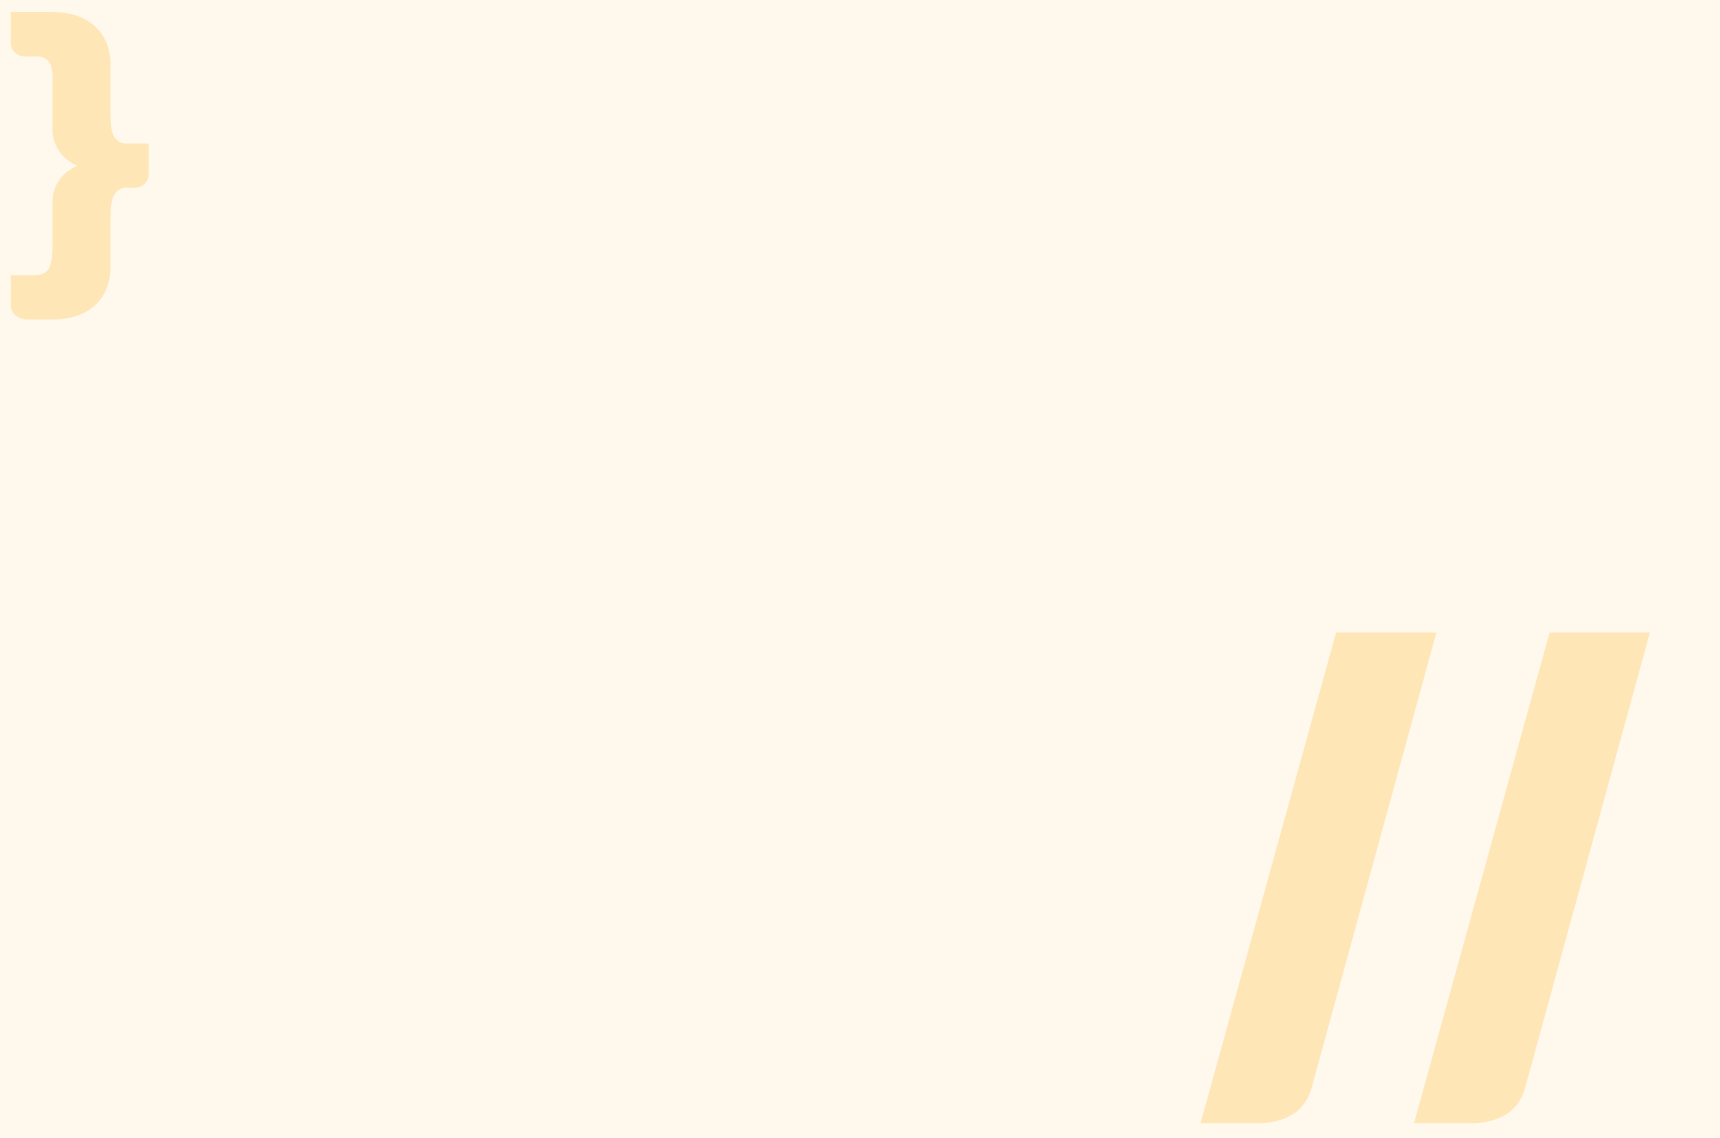
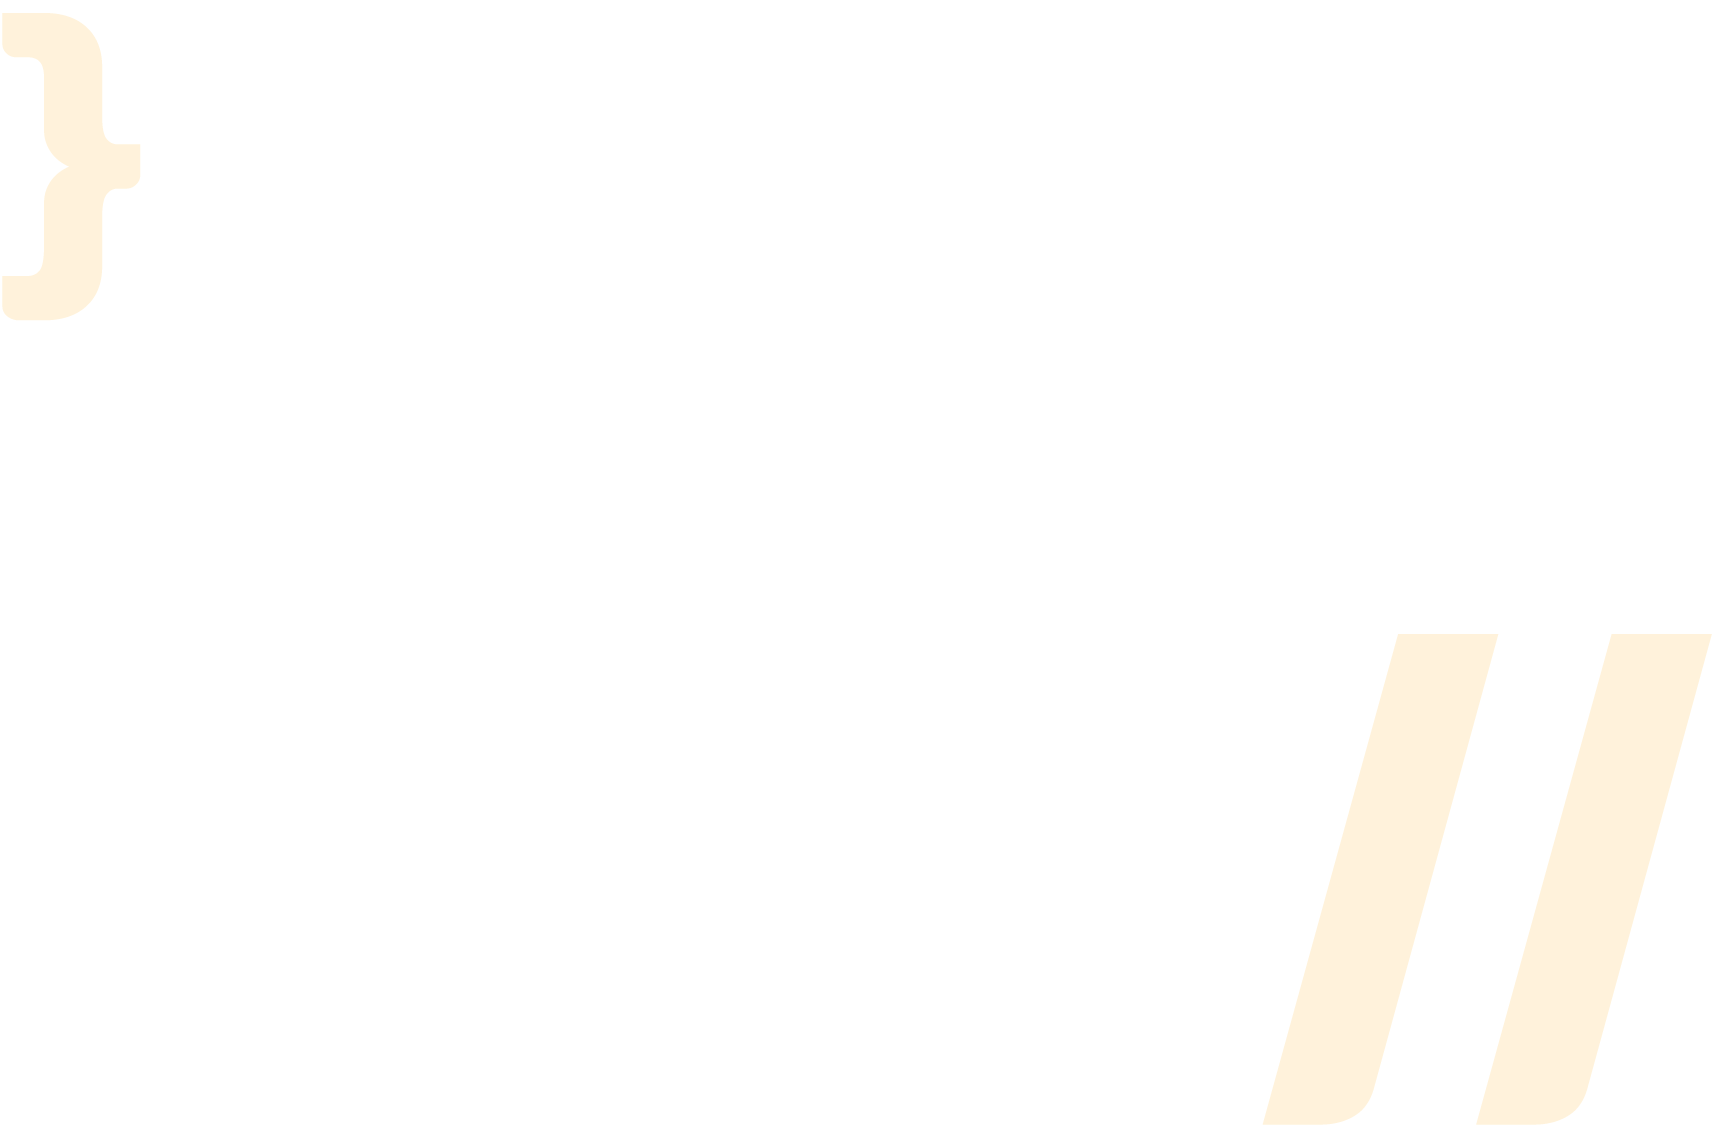
html,css - contact me 완성

Changed region(s): [[0.8012, 0.5536, 0.9552, 1.0], [0.6779, 0.5536, 0.832, 1.0], [0.0, 0.0, 0.0924, 0.2768]]

diff --git a/assets/css/style.css b/assets/css/style.css
@@ -5,8 +5,10 @@
   --color-dark-white: #bdbdbd;
   --color-yellow: #FFF2DE;
   --color-light-yellow: #FFFAF0;
+  --color-middle-yellow: #FFF9EE;
   --color-dark-yellow: #FFF1D8;
   --color-orange-yellow: #ffe0b2;
+  --color-dark-orange-yellow: #FFD894;
   --color-mint : #D1E9DB;
   --color-dark-grey: #4d4d4d;
   --color-grey: #616161;
@@ -42,19 +44,21 @@ body {height: 3000px; background-color: var(--color-white); color: var(--text-co
 /* scroll */
 .scroll {
   position: fixed;
-  right: 20px;
+  left: 20px;
   bottom: 20px;
   z-index: 100; 
   background-color: salmon; color: var(--color-white);
   padding: 10px;
+  z-index: 1000000;
 }
 .innerWidth {
   position: fixed;
-  right: 20px;
+  left: 20px;
   bottom: 70px;
   z-index: 100; 
   background-color: darksalmon; color: var(--color-white);
   padding: 10px;
+  z-index: 1000000;
 }
 
 /* lolling */
@@ -577,107 +581,109 @@ body {height: 3000px; background-color: var(--color-white); color: var(--text-co
   color: var(--color-black);
 }
 
-
-/* sec5 */
-#section05 {
-  width: 90vw; margin-left: 10vw; 
-  /* background-color: #ffe4d8; */
-  padding-top: 100px;
-  padding-bottom: 100px;
-  
+/*** footer ***/
+.footer {
+  height: 100vh;
+  background: top center / cover no-repeat url(../img/bg_contact.png) var(--color-middle-yellow);
 }
-#section05 .sec5Wrap {
-  
+.footerWrap {
+  display: flex;
+  flex-direction: column;
 }
-#section05 .sec5Wrap .secTit {
-  margin-top: 200px; padding-bottom: 100px;
-  font-size: 230px; line-height: 230px;
-  text-align: center;
-  border-bottom: 4px solid var(--color-black);
-  position: relative;
+.footerWrap .secTit {
+  font-size: 180px;
+  padding: 50px 30px 15px;
+  border-bottom: var(--border-line) solid var(--color-black);
 }
-#section05 .sec5Wrap .secTit .titDeco {
-  position: absolute; top: -200px; right: 155px;
-  
+.footerCont {
+  display: flex;
+  flex-wrap: wrap;
+  margin-left: 30px;
+  /* justify-content: space-between; */
 }
-#section05 .sec5Wrap .boxWrap {
-  width: 100%; 
-  /* background-color: antiquewhite; */
-  position: relative;
+p.contTit {
+  width: 100%;
+  font-size: 80px;
+  padding: 15px 30px 15px 0;
 }
-#section05 .sec5Wrap .boxWrap .boxAniImg {
-  position: fixed; top: 50%; right: 8%;
-  transform: translateY(-50%);
-  width: 520px; height: 670px;
+.contactBox {
+  width: 60%;
+  padding: 20px;
+  background-color: var(--color-dark-yellow);
+  /* max-width: 40vw; */
 }
-#section05 .sec5Wrap .boxWrap .boxAniImg .imgList {
-  position: absolute; top: 0; left: 0;
+.contactBox form{
+  font-size: 30px;
 }
-#section05 .sec5Wrap .boxWrap .boxAniImg .imgList.list1 {
-  background-color: rgb(255, 163, 151);
+.contactBox form label {
+  display: block;
+  margin-bottom: 10px;
+  display: flex;
 }
-#section05 .sec5Wrap .boxWrap .boxList .box {
-  width: 100%; height: 33.333vh;
-  padding: 0 50px; 
-  font-size: 100px; 
-  color: rgba(0,0,0,0.3);
-  border-bottom: 4px solid rgba(0,0,0,0.3);
-  display: flex; align-items: center; justify-content: center;
-  cursor: pointer;
+.contactBox form label input,
+.contactBox form label textarea{
+  border: var(--border-line) solid var(--color-orange-yellow);
 }
-#section05 .sec5Wrap .boxWrap .boxList .box:hover {
-  color: rgba(0,0,0,1);
-  transition : color 0.6s ease;
-  justify-content: flex-start;
+.contactBox form label input {
+  width: 30%;
 }
-
-
-/* sec6 */
-#section06 {
-  width: 90vw; height: 100vh;
-  margin-left: 10vw; 
-  background-color: #FFF9EE;
-  background-image: url(../img/bg_contact.png);
-  background-repeat: no-repeat;
-  background-size: auto 100%;
-  
-  
+.contactBox form label textarea {
+  width: 76%;
+  height: 10vw;
 }
-#section06 .sec6Wrap {
-  
-}
-#section06 .sec6Wrap .secTit {
-  font-size: 150px;
-  padding: 130px 30px 10px;
-  border-bottom: 4px solid #000;
-  /* background-color: coral; */
-}
-#section06 .sec6Wrap .boxWrap {
-  border-bottom: 4px solid #000;
-  padding: 30px 60px 60px;
-  display: flex; justify-content: space-between; align-items: center;
-}
-#section06 .sec6Wrap .boxWrap .left {
-  width: 70%;
-}
-#section06 .sec6Wrap .boxWrap .left .boxTxt {
-  font-size: 60px; 
-}
-#section06 .sec6Wrap .boxWrap .left .boxBtn {
-  margin-top: 30px;
-}
-#section06 .sec6Wrap .boxWrap .left .boxBtn a {
+.contactBox form label span {
   display: inline-block;
-  font-size: 20px;
-  padding: 23px 50px; 
-  background-color: #FFD894; border-radius: 60px;
-  border: 4px solid #000;
+  width: 25%;
+}.contactBox form .button {
+  display: flex;
+  justify-content: flex-end;
+  margin-top: 5px;
 }
-#section06 .sec6Wrap .boxWrap .right {
-  
+.contactBox form .button button {
+  background-color: var(--color-dark-orange-yellow);
+  padding: 10px 30px;
+  font-size: 25px;
+  font-weight: bold;
+  max-width: 150px;
+  cursor: pointer;
+  border-radius: 35px;
+  /* border: var(--border-line) solid var(--color-black); */
 }
-#section06 .sec6Wrap .boxWrap .right .imgIcon {
-  width: 350px;
-  margin-right: 130px; padding-top: 30px;
+.imgBox {
+  /* background-color: rgba(255,200,0,0.3); */
+  width: 40%;
+  display: flex;
+  padding-left: 5%;
+  align-items: center ;
+  position: relative;
 }
-#section06 .sec6Wrap .boxWrap .right .imgIcon {}
+.imgBox img.samrtphone {
+  width: 15vw;
+  height: 15vw;
+  position: relative;
+  z-index: 2;
+}
+.imgBox .light {
+  width: 175px;
+  height: 175px;
+  position: absolute;
+  top: 50%;
+  left: 23%;
+  transform: translateY(-55%);
+  animation: light 2s linear infinite;;
+}
+@keyframes light {
+  0% {
+    opacity: 0;
+  }
+  33% {
+    opacity: 1;
+  }
+  100%{
+    opacity: 0;
+  }
+}
+.footer .lolling {
+  margin-top: 20px;
+  justify-content: flex-end;
+}

diff --git a/index.html b/index.html
@@ -32,6 +32,9 @@
   <script src="assets/js/shoppinglist/shoppinglist_ver1.js" defer></script>
   <script src="assets/js/shoppinglist/shoppinglist_ver2.js" defer></script>
 
+  <!-- contact me script -->
+  <script src="https://formspree.io/js/formbutton-v1.min.js" defer></script>
+
 </head>
 <body>
   <iframe src="https://hailie1230.github.io/js_ani_wave/index.html" frameborder="0" style="display: none;"></iframe>
@@ -393,6 +396,78 @@
       </div>
     </section>
     <!--//sec05-->
+
+    <section id="footer" class="footer section">
+      <div class="footerWrap">
+        <h2 class="secTit timon">
+          Thank you!!
+        </h2>
+        <div class="footerCont">
+          <p class="contTit timon">Do you want to know <span>about me?</span></p>
+          <div class="contactBox">
+            <form
+              action="https://formspree.io/f/xknyzqak"
+              method="POST"
+            >
+              <label>
+                <span>Your email:</span>
+                <input type="email" name="email">
+              </label>
+              <label>
+                <span>Your message:</span>
+                <textarea name="message"></textarea>
+              </label>
+              <!-- your other form fields go here -->
+              <div class="button">
+                <button type="submit"><span>Send</span></button>
+              </div>
+            </form>
+          </div>
+          <div class="imgBox">
+            <img class="samrtphone" src="assets/img/smartphone.png" alt="스마트폰 터치 일러스트">
+            <span class="light disIb">
+              <img src="assets/img/light.png" alt="light">
+            </span>
+          </div>
+        </div>
+        <div class="lolling move timon">
+          <p>HTML&nbsp;&nbsp;CSS&nbsp;&nbsp;JAVASCRIPT&nbsp;&nbsp;REACT&nbsp;&nbsp;VUE&nbsp;&nbsp;HTML&nbsp;&nbsp;CSS&nbsp;&nbsp;JAVASCRIPT&nbsp;&nbsp;REACT&nbsp;&nbsp;VUE&nbsp;&nbsp;HTML&nbsp;&nbsp;CSS&nbsp;&nbsp;JAVASCRIPT&nbsp;&nbsp;REACT&nbsp;&nbsp;VUE&nbsp;&nbsp;HTML&nbsp;&nbsp;CSS&nbsp;&nbsp;JAVASCRIPT&nbsp;&nbsp;REACT&nbsp;&nbsp;VUE&nbsp;&nbsp;HTML&nbsp;&nbsp;CSS&nbsp;&nbsp;JAVASCRIPT&nbsp;&nbsp;REACT&nbsp;&nbsp;VUE&nbsp;&nbsp;HTML&nbsp;&nbsp;CSS&nbsp;&nbsp;JAVASCRIPT&nbsp;&nbsp;REACT&nbsp;&nbsp;VUE&nbsp;&nbsp;HTML&nbsp;&nbsp;CSS&nbsp;&nbsp;JAVASCRIPT&nbsp;&nbsp;REACT&nbsp;&nbsp;VUE&nbsp;&nbsp;HTML&nbsp;&nbsp;CSS&nbsp;&nbsp;JAVASCRIPT&nbsp;&nbsp;REACT&nbsp;&nbsp;VUE&nbsp;&nbsp;HTML&nbsp;&nbsp;CSS&nbsp;&nbsp;JAVASCRIPT&nbsp;&nbsp;REACT&nbsp;&nbsp;VUE&nbsp;&nbsp;HTML&nbsp;&nbsp;CSS&nbsp;&nbsp;JAVASCRIPT&nbsp;&nbsp;REACT&nbsp;&nbsp;VUE&nbsp;&nbsp;HTML&nbsp;&nbsp;CSS&nbsp;&nbsp;JAVASCRIPT&nbsp;&nbsp;REACT&nbsp;&nbsp;VUE&nbsp;&nbsp;</p>
+        </div>
+      </div>
+      <script>
+        /* paste this line in verbatim */
+        window.formbutton=window.formbutton||function(){(formbutton.q=formbutton.q||[]).push(arguments)};
+        /* customize formbutton below*/     
+        formbutton("create", {
+          action: "https://formspree.io/f/xknyzqak",
+          title: "How can we help?",
+          fields: [
+            { 
+              type: "email", 
+              label: "Email:", 
+              name: "email",
+              required: true,
+              placeholder: "your@email.com"
+            },
+            {
+              type: "textarea",
+              label: "Message:",
+              name: "message",
+              placeholder: "What's on your mind?",
+            },
+            { type: "submit" }      
+          ],
+          styles: {
+            title: {
+              backgroundColor: "gray"
+            },
+            button: {
+              backgroundColor: "gray"
+            }
+          }
+        });
+      </script>
+    </section>
 
   </main>
 </body>

diff --git a/assets/css/media_style.css b/assets/css/media_style.css
@@ -297,9 +297,10 @@
     line-height: 4vw;
     padding-top: 0;
     padding-left: 0;
-    padding: 3vw;
+    padding: 3vw 1vw;
     position: static;
     transition: none;
+    text-align: center;
   }
   .sec05 .sec5Wrap .sec5Box .boxWrap.activeMob {
     border: var(--border-line) solid #000;
@@ -310,7 +311,48 @@
   .sec05 .sec5Wrap .sec5Box .boxWrap.activeMob .gallery {
     opacity: 1;
   }
-  
+
+  /* footer */
+  .footer {
+    height: auto;
+    background-image: url(../img/bg_contact_mob.png);
+  }
+  .footerWrap .secTit {
+    font-size: 12vw;
+    padding: 6.5vw 5vw 2vw;
+  }
+  .footerCont {
+    width: 90vw;
+    margin-left: auto;
+    margin-right: auto;
+  }
+  p.contTit {
+    /* padding: 6.5vw 0; */
+    font-size: 8vw;
+  }
+  .contactBox {
+    width: 100%;
+  }
+  .contactBox form {
+    font-size: 16px;
+  }
+  .contactBox form label span {
+    width: 30%;
+  }
+  .contactBox form label textarea {
+    width: 69%;
+    height: 45px;
+  }
+  .contactBox form .button button {
+    font-size: 15px;
+    padding: 5px 15px;
+  }
+  .imgBox {
+    display: none;
+  }
+  .footer .lolling {
+    margin-top: 0;
+  }
 }
 
 
